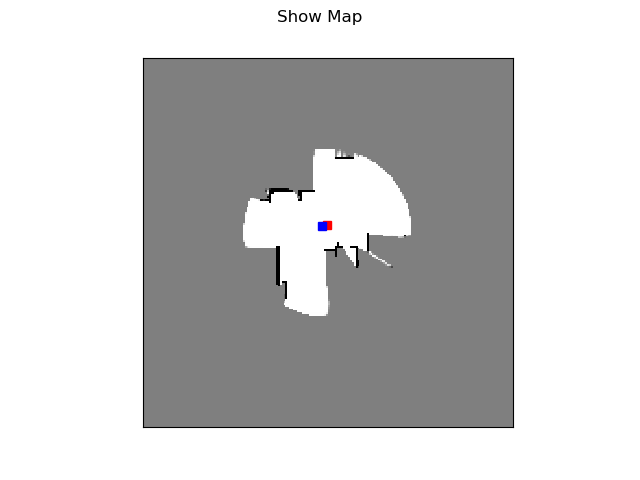
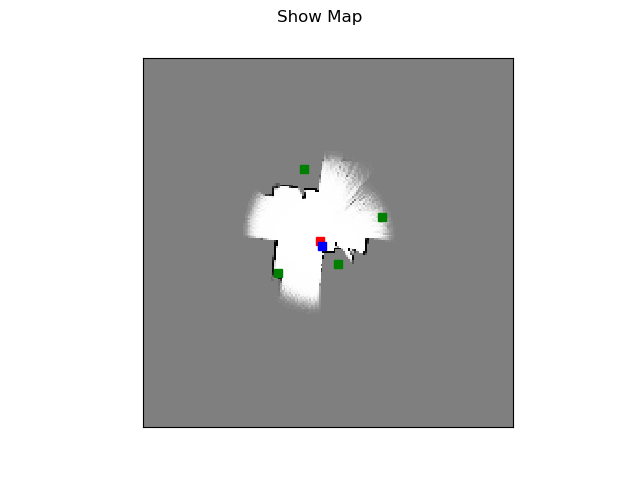
frontiers finder working! some tweaking could be needed...

Changed region(s): [[0.375, 0.3125, 0.6562, 0.6562], [0.5938, 0.5312, 0.625, 0.5625]]

diff --git a/deliberativeLayer/frontierBasedExploration/frontierCalculator.py b/deliberativeLayer/frontierBasedExploration/frontierCalculator.py
@@ -1,166 +1,220 @@
-import asyncio
+
 from collections import deque
 
 import math
 
-from deliberativeLayer.cartographer import map_info
+# Minimum number of coordinates in a frontier in order to consider it as a possible frontier
+MIN_NUM_FRONTIER_POINTS = 20
+# Maximum value for considering a grid coordinate open
+OPEN_THRESHOLD = 0.4
 
-MIN_NUM_FRONTIER_POINTS = 30
-OPEN_THRESHOLD = 0.2
 
-
-class frontierCalculator:
+class Frontier_calculator:
     """
-    This class is used to represent game positions. It uses a 2-dimensional char array for the board
-    and a Boolean to keep track of which player has the move.
-
-    Author: Ola Ringdahl
+    This class calculates the frontier out of a probability gris
     """
 
-
-    def find_frontiers(self, c_space, robot_coordt):
-        # Algorithm from https://arxiv.org/ftp/arxiv/papers/1806/1806.03581.pdf
-
+    def find_frontiers(self, c_space, robot_coord):
         """
-        Marking lists
+        Calculates all the frontier out of a probability grid
+
+        Algorithm from: Frontier Based Exploration for Autonomous Robot
+        https://arxiv.org/ftp/arxiv/papers/1806/1806.03581.pdf and
+        Robot Exploration with Fast Frontier Detection: Theory and Experiments
+        http://www.ifaamas.org/Proceedings/aamas2012/papers/3A_3.pdf
+
+        Args
+            c_space: the configuration space describing the environment
+            robot_coord: the start coordinate for the BFS
+        Return
+            a list of lists which contains points describing each frontier
         """
-        frontiers=[]
+
+        frontiers = []
         map_open_list = []
         map_close_list = []
         frontier_open_list = []
         frontier_close_list = []
 
-        x = math.floor(robot_coordt[0])
-        y = math.floor(robot_coordt[1])
-
-        #print(x, y)
-
-        robot_coord = [x,y]
+        robot_coord = [math.floor(robot_coord[0]), math.floor(robot_coord[1])]
 
         queue_m = deque([])
         queue_m.append(robot_coord)
         map_open_list.append(robot_coord)
 
         while queue_m:
+
             p = queue_m.popleft()
+
             if p in map_close_list:
                 continue
+
             if self.is_frontier_point(p, c_space):
                 queue_f = deque([])
                 new_frontier = []
-
-                queue_f.append(robot_coord)
+                queue_f.append(p)
                 frontier_open_list.append(p)
 
                 while queue_f:
-                    q = queue_f.popleft(robot_coord)
+
+                    q = queue_f.popleft()
+
                     if q in map_close_list and q in frontier_close_list:
                         continue
-                    if self.is_frontier_point(q, c_space.occupancy_grid):
-                        new_frontier.add(q)
-                        for w in self.adjacent(q):
+
+                    if self.is_frontier_point(q, c_space):
+                        new_frontier.append(q)
+
+                        for w in self.adjacent(q, c_space):
                             if w not in frontier_open_list and w not in frontier_close_list and w\
-                            not in map_close_list:
+                              not in map_close_list:
                                 queue_f.append(w)
-                                frontier_open_list.add(w)
-                    frontier_close_list.add(q)
-                frontiers.add(new_frontier)
-                frontier_close_list.add(new_frontier)
+                                frontier_open_list.append(w)
+
+                    frontier_close_list.append(q)
+
+                if len(new_frontier) > MIN_NUM_FRONTIER_POINTS:
+                    frontiers.append(new_frontier)
+                    frontier_close_list.append(new_frontier)
+
             for v in self.adjacent(p, c_space):
                 if v not in map_open_list and v not in map_close_list and self.has_open_neighbor(v, c_space):
                     queue_m.append(v)
                     map_open_list.append(v)
+
             map_close_list.append(p)
 
-        return frontiers
+
+        return self.frontiers_to_centroid(frontiers)
 
     def has_open_neighbor(self, p, c_space):
         """
-#        Returns True if point has an unknown cell adjacent to it
+        Returns True if the coordinate has an open neighbor
+
+        Args
+            c_space: the configuration space describing the environment
+        Return
+            a boolean value that indicates whether a coordinate has an open neighbor or not
         """
-        if not c_space.is_within_grid(p[0],p[1]):
-            return False
+        #if not c_space.is_within_grid(p[0], p[1]):
+        #    return False
 
         neighbors = self.adjacent(p, c_space)
 
-
-
-        for p in neighbors:
-
-            x, y = p
-
+        for x, y in neighbors:
             if c_space.occupancy_grid[x][y] <= OPEN_THRESHOLD:
                 return True
 
         return False
 
-
     def adjacent(self, p, c_space):
         """
-        Returns the positions adjacent to the point.
+        Retrieves all the coordinates adjacent to another coordinate
+
+        Args
+            c_space: the configuration space describing the environment
+        Return
+            a list of tuples describing the coordinates adjacent to the input coordinate
         """
 
-        x, y = p
+        adjacent_points = []
 
-        x_max = c_space.grid_nr_rows - 1
-
-        y_max = c_space.grid_nr_columns - 1
-
-        adjacent_points = set([])
-
-        if x < x_max:
-            adjacent_points.add((x + 1, y))
-
-        if y < y_max:
-            adjacent_points.add((x, y + 1))
-
-        if x < x_max and y < y_max:
-            adjacent_points.add((x + 1, y + 1))
-
-        if x > 0:
-            adjacent_points.add((x - 1, y))
-
-        if y > 0:
-            adjacent_points.add((x, y - 1))
-
-        if x > 0 and y > 0:
-            adjacent_points.add((x - 1, y - 1))
-
-        if x < x_max and y > 0:
-            adjacent_points.add((x + 1, y - 1))
-
-        if x > 0 and y < y_max:
-            adjacent_points.add((x - 1, y + 1))
+        #   _ _ _
+        #  |_|_|_|
+        #  |_|_|_|  (-1, -1)
+        #  |X|_|_|
+        if c_space.is_within_grid(p[0]-1, p[1]-1):
+            adjacent_points.append((p[0] - 1, p[1]-1))
+        #   _ _ _
+        #  |_|_|_|
+        #  |_|_|_|  (-1, 0)
+        #  |_|X|_|
+        if c_space.is_within_grid(p[0] - 1, p[1]):
+            adjacent_points.append((p[0] - 1, p[1]))
+        #   _ _ _
+        #  |_|_|_|
+        #  |_|_|_|  (-1, 1)
+        #  |_|_|X|
+        if c_space.is_within_grid(p[0] - 1, p[1]+1):
+            adjacent_points.append((p[0] - 1, p[1]+1))
+        #   _ _ _
+        #  |_|_|_|
+        #  |X|_|_|  (0, -1)
+        #  |_|_|_|
+        if c_space.is_within_grid(p[0], p[1]-1):
+            adjacent_points.append((p[0], p[1]-1))
+        #   _ _ _
+        #  |_|_|_|
+        #  |_|_|X|  (0, 1)
+        #  |_|_|_|
+        if c_space.is_within_grid(p[0], p[1]+1):
+            adjacent_points.append((p[0], p[1]+1))
+        #   _ _ _
+        #  |X|_|_|
+        #  |_|_|_|  (1, -1)
+        #  |_|_|_|
+        if c_space.is_within_grid(p[0] + 1, p[1]-1):
+            adjacent_points.append((p[0] + 1, p[1]-1))
+        #   _ _ _
+        #  |_|X|_|
+        #  |_|_|_|  (1, 0)
+        #  |_|_|_|
+        if c_space.is_within_grid(p[0] + 1, p[1]):
+            adjacent_points.append((p[0] + 1, p[1]))
+        #   _ _ _
+        #  |_|_|X|
+        #  |_|_|_|  (1, 1)
+        #  |_|_|_|
+        if c_space.is_within_grid(p[0] + 1, p[1]+1):
+            adjacent_points.append((p[0] + 1, p[1]+1))
 
         return adjacent_points
 
     def is_frontier_point(self, p, c_space):
+        """
+        Any open cell adjacent to an unknown cell is labeled frontier edge cell.
+        In order to consider a coordinate unknown its probability should be 0.5, the
+        value the probability grid is initiated to
 
-        #print(p)
-        if not c_space.is_within_grid(p[0],p[1]):
-            return False
+        Args
+            c_space: the frontiers found in the probability gris
+        Return
+            a boolean value indicating whether the coordinate is a frontier point or not
+        """
+        #if not c_space.is_within_grid(p[0], p[1]):
+        #    return False
 
-        x, y = p
+        adjacent_points_to_p = self.adjacent(p, c_space)
 
-
-
-        epsilon = 0.2
-
-        if abs(c_space.occupancy_grid[p[0]][p[1]] - 0.5) > epsilon:
-
-            return False
-
-
-
-        for p in self.adjacent(p):
-
-            x, y =  math.floor(p)
-
-            if c_space.occupancy_grid[x, y] <= OPEN_THRESHOLD:
-
-                return True
-
-
+        # If p is an open coordinate
+        if c_space.occupancy_grid[p[0]][p[1]] <= OPEN_THRESHOLD:
+            # And has an adjacent unknown cell
+            for x, y in adjacent_points_to_p:
+                if 0.30 <= c_space.occupancy_grid[x, y] <= 0.7:
+                    return True
 
         return False
 
+    def frontiers_to_centroid(self, frontiers):
+        """
+        Get the list of frontiers and calculate their centroid
+
+        Args
+            frontiers: the frontiers found in the probability grid
+        Return
+            a list of tuples describing the centroid of each frontier
+        """
+        sum_x = 0
+        sum_y = 0
+        frontier_centroid_list = []
+        for frontier in frontiers:
+            for x,y in frontier:
+                sum_x += x
+                sum_y += y
+            length = len(frontier)
+            print(length)
+            frontier_centroid_list.append((sum_x/length, sum_y/length))
+            sum_x = 0
+            sum_y = 0
+
+        return frontier_centroid_list

diff --git a/mrds_test_python3.py b/mrds_test_python3.py
@@ -12,7 +12,7 @@ Updated by Ola Ringdahl 2017-10-18 (added example code that use showMap)
 Updated by Ola Ringdahl 2018-11-01 (fixed so that you can write the address with http://
     without getting a socket error. Added a function for converting (x,y) to (row,col))
 """
-
+import sched
 import time
 
 from bayes.Bayesian import Bayesian
@@ -26,7 +26,7 @@ url = 'http://localhost:50000'
 # HTTPConnection does not want to have http:// in the address apparently, so lest's remove it:
 MRDS_URL = url[len("http://"):]
 HEADERS = {"Content-type": "application/json", "Accept": "text/json"}
-
+s = sched.scheduler(time.time, time.sleep)
 
 class UnexpectedResponse(Exception):
     pass
@@ -51,7 +51,7 @@ if __name__ == '__main__':
     bayes_map = Bayesian(c_space.occupancy_grid)
     map = ShowMap(c_space.grid_nr_rows, c_space.grid_nr_columns, showGUI)
     robot_sensing = robotSensing()
-    frontier_calculator = frontierCalculator()
+    frontier_calculator = Frontier_calculator()
 
     try:
         print('Telling the robot to go straight ahead.')
@@ -89,10 +89,6 @@ if __name__ == '__main__':
 
 
             for bresenham_line in bresenham_lines:
-                # Calculate the distance from the robot coordinate to the end point of each Bresenham line
-                #dist = calculate_distance(bresenham_line[-1][0],bresenham_line[-1][1],robot_row,robot_col)
-                #                          bresenham_lines[len(bresenham_lines) - 1][1],robot_row,robot_col)
-
                 bayes_map.bayes_handler(bresenham_line, robot_row, robot_col)
                 """
                 for coordinate in bresenham_line:
@@ -100,15 +96,12 @@ if __name__ == '__main__':
                     if math.floor(coordinate[0]) < c_space.grid_nr_rows and math.floor(coordinate[1]) < c_space.grid_nr_columns and \
                        math.floor(coordinate[0]) >= 0 and math.floor(coordinate[1]) >= 0:
                         c_space.occupancy_grid[math.floor(coordinate[0])][math.floor(coordinate[1])] = 0
+                """
 
+            frontiers = frontier_calculator.find_frontiers(c_space, robot_coord)
+            print(frontiers)
 
-            fontiers = frontier_calculator.find_frontiers(c_space, robot_coord)
-            """
-            #print(fontiers)
-
-            #print('updating map')
-
-            map.updateMap(c_space.occupancy_grid, maxVal, robot_row, robot_col, orientation)
+            map.updateMap(c_space.occupancy_grid, maxVal, robot_row, robot_col, orientation, frontiers)
 
     except UnexpectedResponse as ex:
         print('Unexpected response from server when sending speed commands:', ex)

diff --git a/deliberativeLayer/cartographer/show_map.py b/deliberativeLayer/cartographer/show_map.py
@@ -55,7 +55,7 @@ class ShowMap(object):
         saveMap(self.__fig, self.mapName)
         self.start_time = time.time()
 
-    def updateMap(self, grid, maxvalue, robot_row, robot_col, orientation):
+    def updateMap(self, grid, maxvalue, robot_row, robot_col, orientation, frontiers):
         """
         Creates a new BufferedImage from a grid with integer values between 0 - maxVal,
         where 0 is black and maxVal is white, with a grey scale in between. Negative values are shown as gray.
@@ -92,8 +92,11 @@ class ShowMap(object):
 
         # plot the robot pose
         self.__ax.plot((robot_col), (robot_row), 'rs', markersize=self.__robot_size)
-        # plot the robot pose
+        # plot the robot heading
         self.__ax.plot((robot_col + 3 * np.sin(orientation + np.math.pi/2)), (robot_row + 3 * np.cos(orientation+ np.math.pi/2)), 'bs', markersize=self.__robot_size)
+
+        for frontier in frontiers:
+            self.__ax.plot(frontier[0], (frontier[1]), 'gs', markersize=self.__robot_size)
 
         # draw new figure
         self.__fig.canvas.draw()
